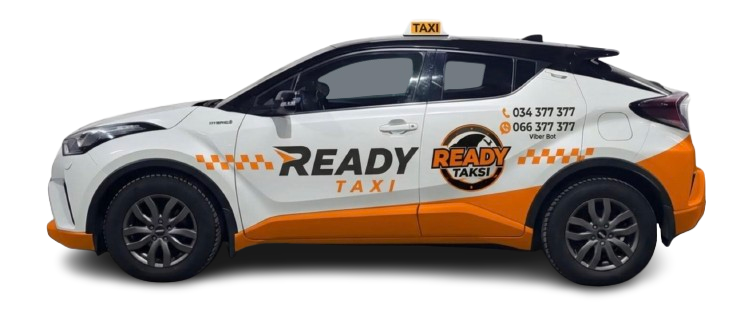
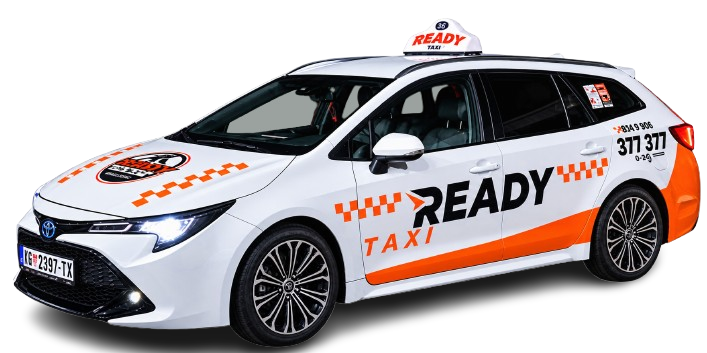
Show the wagon and the hybrid-fleet slogan, with a heavier headline and more space above the buttons.

diff --git a/index.html b/index.html
@@ -34,8 +34,8 @@
 
   <link rel="preconnect" href="https://fonts.googleapis.com">
   <link rel="preconnect" href="https://fonts.gstatic.com" crossorigin>
-  <link href="https://fonts.googleapis.com/css2?family=Bebas+Neue&family=Outfit:wght@300;400;500;600;700&display=swap" rel="stylesheet">
-  <link rel="stylesheet" href="styles.css">
+  <link href="https://fonts.googleapis.com/css2?family=Bebas+Neue&family=Outfit:wght@300;400;500;600;700;800&display=swap" rel="stylesheet">
+  <link rel="stylesheet" href="styles.css?v=slogan-bold">
 
   <script type="application/ld+json">
   {
@@ -112,10 +112,10 @@
       <div class="hero__intro">
         <div class="hero__badge">
           <span class="hero__badge-dot"></span>
-          Kragujevac · Dostupni 24/7
+          Kragujevac · Hibridna flota
         </div>
 
-        <h1 class="hero__title">Ready <span class="hero__title-accent">Taxi.</span></h1>
+        <h1 class="hero__title">Srećniji putnici,<br><span class="hero__title-accent">čistiji Kragujevac</span></h1>
 
         <p class="hero__subtitle">
           Brz, siguran i pouzdan prevoz po celom Kragujevcu.<br>
@@ -125,11 +125,11 @@
 
       <div class="hero__car">
         <img
-          src="ready-taxi-car.png"
+          src="ready-taxi-car.png?v=wagon"
           alt="Ready Taxi automobil u Kragujevcu"
           class="hero__car-image"
-          width="1200"
-          height="600"
+          width="707"
+          height="353"
           loading="eager"
           fetchpriority="high"
         >

diff --git a/styles.css b/styles.css
@@ -317,7 +317,7 @@ a {
 
 .hero__intro {
   width: 100%;
-  max-width: 40rem;
+  max-width: 100%;
   text-align: center;
   display: flex;
   flex-direction: column;
@@ -355,6 +355,7 @@ a {
   flex-shrink: 1;
   gap: 0.7rem;
   animation: fadeUp 1s cubic-bezier(0.22, 1, 0.36, 1) 0.55s both;
+  margin-top: 1.75rem;
 }
 
 .hero__actions {
@@ -385,12 +386,14 @@ a {
 }
 
 .hero__title {
-  font-family: var(--font-display);
-  font-weight: 400;
-  line-height: 1;
-  font-size: clamp(5.5rem, 18vw, 10rem);
-  letter-spacing: 0.02em;
-  width: 100%;
+  font-family: var(--font-body);
+  font-weight: 800;
+  line-height: 1.08;
+  font-size: clamp(2.5rem, 6.4vw, 4.75rem);
+  letter-spacing: -0.03em;
+  text-transform: uppercase;
+  width: max-content;
+  max-width: 100%;
   min-width: 0;
 }
 
@@ -1183,7 +1186,7 @@ a {
   }
 
   .hero__title {
-    font-size: clamp(4.2rem, 14vw, 6rem);
+    font-size: clamp(2.1rem, 7vw, 3.4rem);
   }
 
   .hero__subtitle {
@@ -1234,10 +1237,8 @@ a {
   }
 
   .hero__title {
-    display: flex;
-    flex-direction: column;
-    align-items: center;
-    font-size: clamp(4.4rem, 22vw, 6.2rem);
+    display: block;
+    font-size: clamp(1.85rem, 8.4vw, 2.7rem);
   }
 
   .hero__subtitle {
@@ -1261,7 +1262,7 @@ a {
   .hero__cta {
     flex-shrink: 0;
     max-width: 28rem;
-    margin-top: 0.75rem;
+    margin-top: 1.75rem;
   }
 
   .hero__actions {
